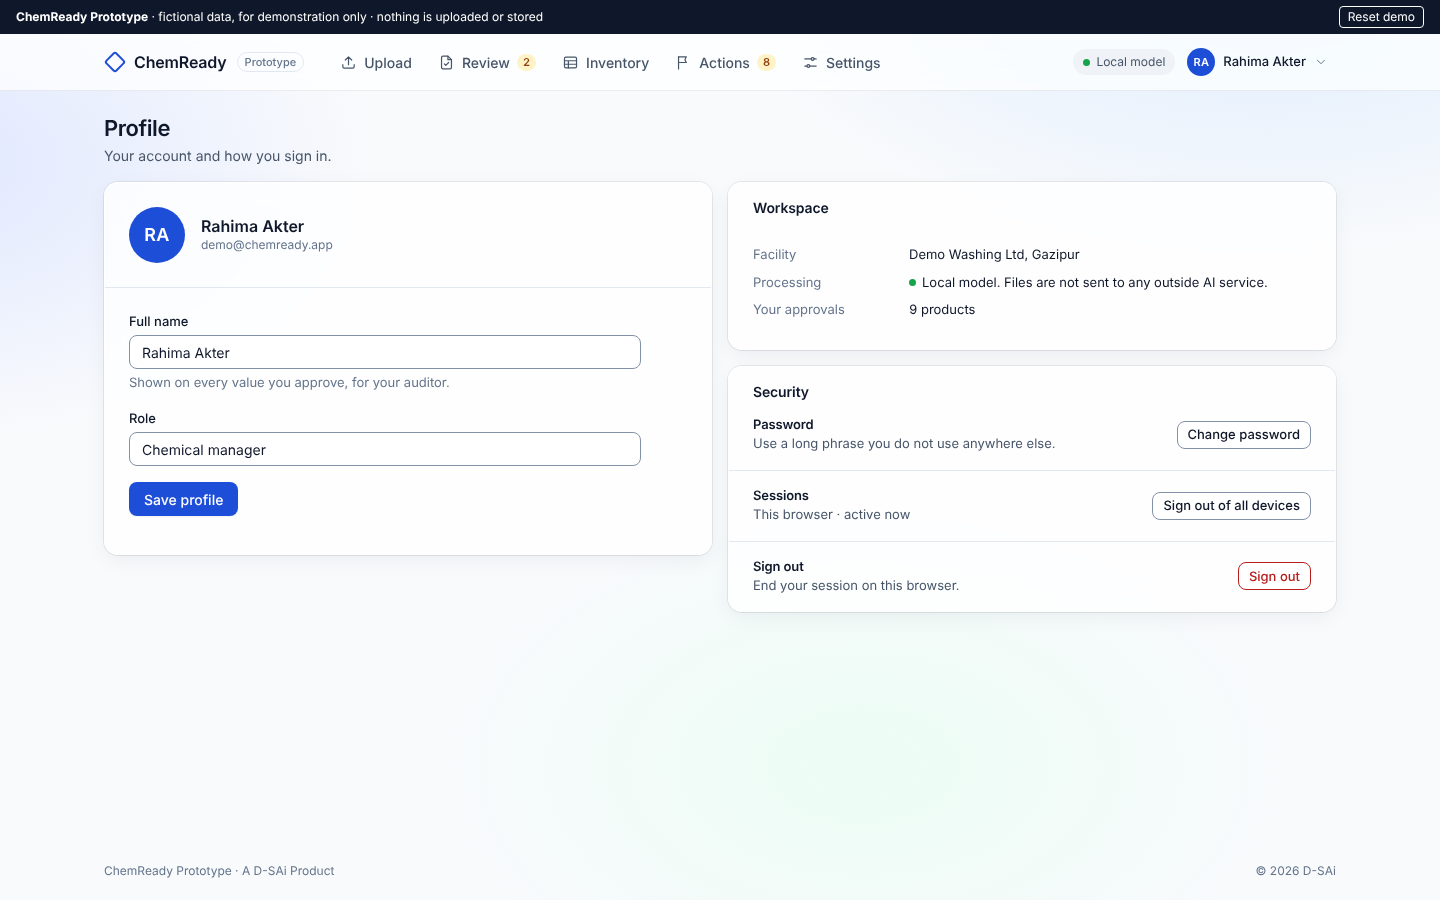
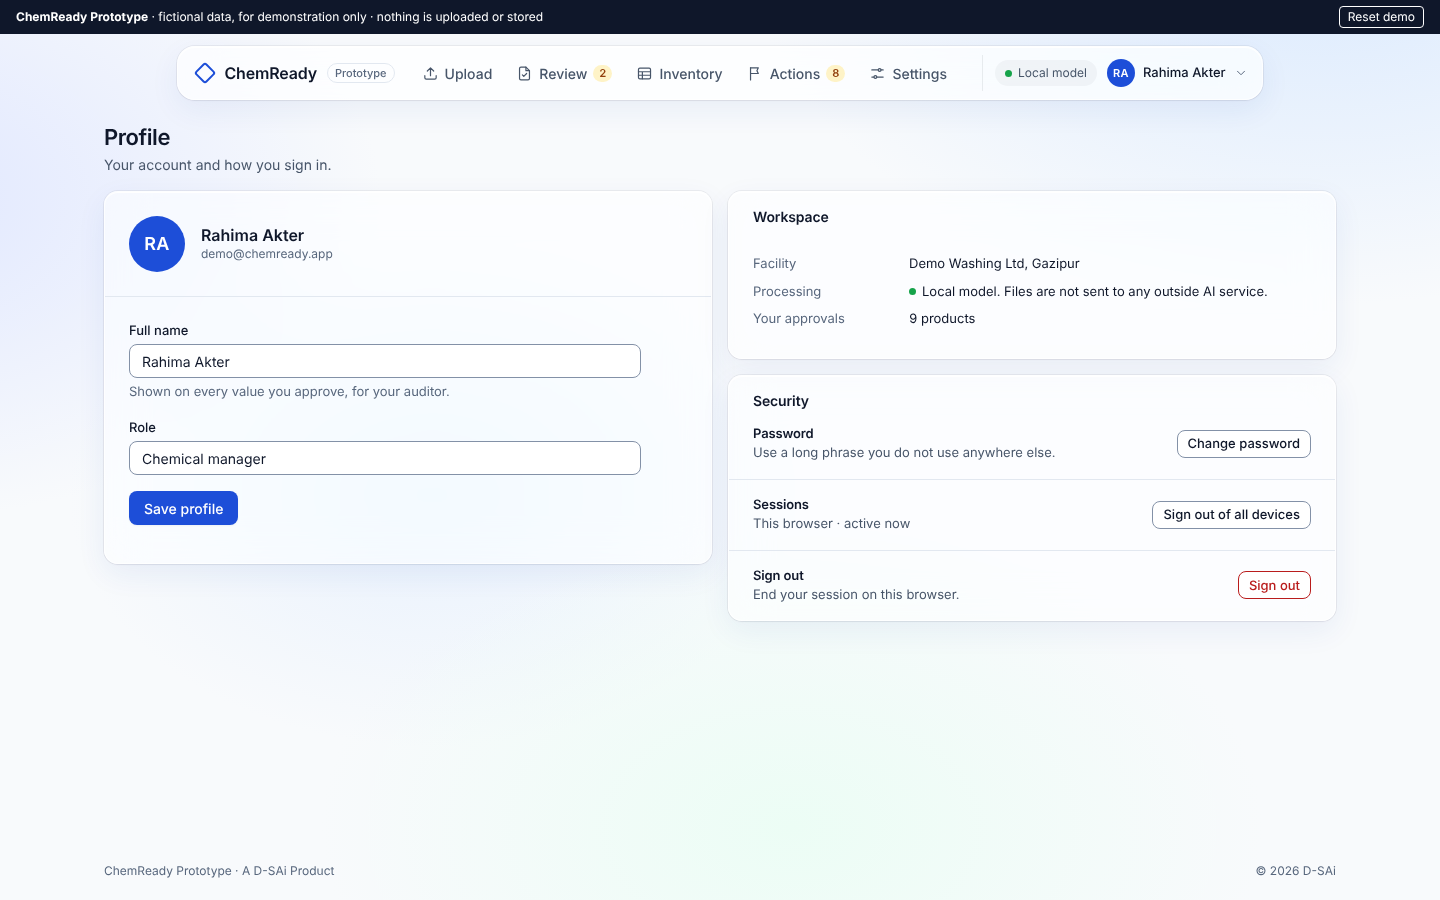
feat(prototype): compact floating navigation pill and glass cards
- Replace the full-width top bar with a centred floating glass pill
- Make every card glass with blur, a top highlight and a soft shadow
- Darken muted text so it stays readable on glass

diff --git a/prototype/index.html b/prototype/index.html
@@ -10,7 +10,7 @@
   --color-surface-subtle: #F1F5F9;
   --color-text: #0F172A;
   --color-text-secondary: #475569;
-  --color-text-muted: #64748B;
+  --color-text-muted: #58677D;
   --color-border: #E2E8F0;
   --color-border-input: #8391A7;
   --color-primary: #1D4ED8;
@@ -44,16 +44,18 @@
   --shadow-sm: 0 1px 2px rgba(15, 23, 42, 0.05);
   --shadow-md: 0 4px 14px rgba(15, 23, 42, 0.08), 0 1px 3px rgba(15, 23, 42, 0.06);
   --shadow-lg: 0 20px 48px rgba(15, 23, 42, 0.18), 0 2px 6px rgba(15, 23, 42, 0.08);
-  --topnav-height: 56px;
+  --topnav-height: 52px;
   --row-height: 40px;
   --content-max: 1280px;
   --banner-height: 30px;
   --glass-bg: rgba(255, 255, 255, 0.62);
   --glass-bg-strong: rgba(255, 255, 255, 0.78);
-  --glass-nav: rgba(255, 255, 255, 0.72);
+  --glass-nav: rgba(255, 255, 255, 0.70);
   --glass-menu: #FFFFFF;
-  --glass-card: rgba(255, 255, 255, 0.80);
-  --glass-card-blur: saturate(160%) blur(14px);
+  --glass-card: rgba(255, 255, 255, 0.58);
+  --glass-card-blur: saturate(180%) blur(20px);
+  --glass-highlight: inset 0 1px 0 rgba(255, 255, 255, 0.9);
+  --glass-card-shadow: 0 0 0 1px rgba(15, 23, 42, 0.06), 0 1px 2px rgba(15, 23, 42, 0.04), 0 10px 30px rgba(30, 64, 175, 0.07);
   --glass-border: rgba(255, 255, 255, 0.75);
   --glass-edge: rgba(15, 23, 42, 0.08);
   --glass-blur: saturate(180%) blur(18px);
@@ -67,9 +69,10 @@ html, body { height: 100%; }
 body {
   margin: 0; color: var(--color-text);
   background:
-    radial-gradient(900px 520px at 88% -8%, var(--wash-1) 0%, transparent 62%),
-    radial-gradient(760px 460px at -6% 18%, var(--wash-2) 0%, transparent 60%),
-    radial-gradient(700px 420px at 60% 85%, var(--wash-3) 0%, transparent 60%),
+    radial-gradient(900px 560px at 92% -6%, var(--wash-1) 0%, transparent 64%),
+    radial-gradient(800px 520px at -8% 22%, var(--wash-2) 0%, transparent 62%),
+    radial-gradient(760px 480px at 55% 92%, var(--wash-3) 0%, transparent 62%),
+    radial-gradient(520px 360px at 30% 55%, rgba(219, 234, 254, 0.55) 0%, transparent 70%),
     var(--color-page);
   background-attachment: fixed;
   font-family: var(--font-sans); font-size: var(--text-base); line-height: 1.5;
@@ -97,7 +100,7 @@ svg.icon { width: 18px; height: 18px; flex: none; fill: none; stroke: currentCol
 
 /* ---------- Landing ---------- */
 .landing { min-height: calc(100% - var(--banner-height)); }
-.glass { background: var(--glass-bg); -webkit-backdrop-filter: var(--glass-blur); backdrop-filter: var(--glass-blur); border: 1px solid var(--glass-border); box-shadow: 0 0 0 1px var(--glass-edge), var(--shadow-md); }
+.glass { background: var(--glass-card); -webkit-backdrop-filter: var(--glass-card-blur); backdrop-filter: var(--glass-card-blur); border: 1px solid var(--glass-border); box-shadow: var(--glass-highlight), var(--glass-card-shadow); }
 .l-wrap { max-width: 1120px; margin: 0 auto; padding-inline: var(--space-5); }
 .l-top-wrap { position: sticky; top: calc(var(--banner-height) + 12px); z-index: 10; padding-inline: var(--space-4); margin-top: 12px; }
 .l-top.glass { background: rgba(255, 255, 255, 0.86); }
@@ -141,27 +144,28 @@ svg.icon { width: 18px; height: 18px; flex: none; fill: none; stroke: currentCol
 
 /* ---------- App shell: horizontal top navigation, no sidebar ---------- */
 .app { min-height: calc(100% - var(--banner-height)); display: flex; flex-direction: column; }
-.topnav {
-  position: sticky; top: var(--banner-height); z-index: 15;
+.topnav { position: sticky; top: calc(var(--banner-height) + 12px); z-index: 15; padding-inline: var(--space-4); margin-top: 12px; }
+.topnav-shell {
+  width: fit-content; max-width: 100%; margin: 0 auto; border-radius: 18px;
   background: var(--glass-nav); -webkit-backdrop-filter: var(--glass-blur); backdrop-filter: var(--glass-blur);
-  border-bottom: 1px solid var(--glass-edge);
+  border: 1px solid var(--glass-border); box-shadow: var(--glass-highlight), var(--glass-card-shadow);
 }
-.topnav-inner { max-width: var(--content-max); margin: 0 auto; height: var(--topnav-height); padding-inline: var(--space-5); display: flex; align-items: center; gap: var(--space-5); }
+.topnav-inner { height: var(--topnav-height); padding: 0 6px 0 16px; display: flex; align-items: center; gap: var(--space-4); }
 .topnav .brand { flex: none; }
 .brand-tag { font-size: 11px; font-weight: 500; color: var(--color-text-muted); border: 1px solid var(--color-border); border-radius: 999px; padding: 0 7px; line-height: 18px; margin-left: 2px; }
 .nav { display: flex; align-items: center; gap: 2px; flex: 1; min-width: 0; }
 .nav button {
-  display: inline-flex; align-items: center; gap: 7px; height: 32px; padding: 0 12px;
+  display: inline-flex; align-items: center; gap: 6px; height: 34px; padding: 0 11px; border-radius: 11px !important;
   background: none; border: 0; border-radius: var(--radius-md);
   color: var(--color-text-secondary); font-weight: 500; white-space: nowrap;
   transition: background-color 150ms, color 150ms;
 }
 .nav button svg.icon { width: 17px; height: 17px; }
 .nav button:hover { background: rgba(15, 23, 42, 0.05); color: var(--color-text); }
-.nav button[aria-current="page"] { background: var(--color-surface); color: var(--color-primary); box-shadow: 0 0 0 1px var(--glass-edge), var(--shadow-sm); }
+.nav button[aria-current="page"] { background: var(--color-surface); color: var(--color-primary); box-shadow: 0 0 0 1px rgba(29, 78, 216, 0.14), 0 2px 8px rgba(29, 78, 216, 0.12); }
 .count { font-size: 11px; font-weight: 600; padding: 0 6px; border-radius: 999px; background: rgba(15, 23, 42, 0.06); color: var(--color-text-secondary); font-variant-numeric: tabular-nums; line-height: 17px; }
 .count-review { background: var(--color-review-bg); color: var(--color-review-text); }
-.topnav-right { display: flex; align-items: center; gap: var(--space-2); margin-left: auto; flex: none; position: relative; }
+.topnav-right { display: flex; align-items: center; gap: 6px; margin-left: var(--space-2); flex: none; position: relative; padding-left: var(--space-3); border-left: 1px solid rgba(15, 23, 42, 0.08); }
 .mode-chip { display: inline-flex; align-items: center; gap: 6px; font-size: var(--text-xs); color: var(--color-text-secondary); padding: 0 10px; height: 26px; border-radius: 999px; background: rgba(15, 23, 42, 0.04); }
 .dot { width: 7px; height: 7px; border-radius: 50%; background: var(--color-verified-icon); flex: none; }
 .profile-btn { display: inline-flex; align-items: center; gap: var(--space-2); height: 36px; padding: 0 8px 0 4px; background: none; border: 0; border-radius: 999px; transition: background-color 150ms; }
@@ -188,7 +192,7 @@ svg.icon { width: 18px; height: 18px; flex: none; fill: none; stroke: currentCol
 .menu-foot { font-size: 11px; color: var(--color-text-muted); padding: 6px var(--space-2) 2px; }
 .menu-toggle { display: none; width: 36px; height: 36px; border: 0; background: none; border-radius: var(--radius-md); place-items: center; color: var(--color-text); }
 .menu-toggle:hover { background: rgba(15, 23, 42, 0.05); }
-.mobile-menu { border-top: 1px solid var(--glass-edge); padding: var(--space-2) var(--space-4) var(--space-4); display: grid; gap: 2px; }
+.mobile-menu { border-top: 1px solid var(--glass-edge); padding: var(--space-2) 6px 6px; display: grid; gap: 2px; min-width: min(320px, calc(100vw - 32px)); }
 .mobile-menu button { display: flex; align-items: center; gap: var(--space-3); height: 42px; padding: 0 var(--space-3); border: 0; background: none; border-radius: var(--radius-md); font-weight: 500; color: var(--color-text-secondary); text-align: left; }
 .mobile-menu button[aria-current="page"] { background: var(--color-surface); color: var(--color-primary); box-shadow: 0 0 0 1px var(--glass-edge); }
 .mobile-menu .count { margin-left: auto; }
@@ -216,7 +220,7 @@ svg.icon { width: 18px; height: 18px; flex: none; fill: none; stroke: currentCol
 .section-title { font-size: var(--text-base); font-weight: 600; padding: var(--space-4) var(--space-5) 0; }
 
 /* ---------- Components ---------- */
-.card { background: var(--glass-card); -webkit-backdrop-filter: var(--glass-card-blur); backdrop-filter: var(--glass-card-blur); border: 1px solid var(--glass-border); border-radius: var(--radius-xl); box-shadow: 0 0 0 1px var(--glass-edge), 0 1px 2px rgba(15, 23, 42, 0.04), 0 6px 20px rgba(15, 23, 42, 0.05); }
+.card, .glass-panel { background: var(--glass-card); -webkit-backdrop-filter: var(--glass-card-blur); backdrop-filter: var(--glass-card-blur); border: 1px solid var(--glass-border); border-radius: var(--radius-xl); box-shadow: var(--glass-highlight), var(--glass-card-shadow); transition: box-shadow 200ms; }
 .card-pad { padding: var(--space-5); }
 .btn { display: inline-flex; align-items: center; justify-content: center; gap: 6px; font-weight: 500; padding: 0 14px; height: 34px; border-radius: var(--radius-md); border: 1px solid transparent; white-space: nowrap; transition: background-color 120ms, border-color 120ms; }
 .btn-sm { padding: 0 10px; height: 28px; font-size: var(--text-sm); }
@@ -262,7 +266,7 @@ svg.icon { width: 18px; height: 18px; flex: none; fill: none; stroke: currentCol
 /* Tables */
 .table-wrap { overflow-x: auto; }
 table.data { width: 100%; border-collapse: collapse; font-size: var(--text-sm); }
-table.data th { text-align: left; font-weight: 500; color: var(--color-text-muted); font-size: var(--text-xs); padding: var(--space-3) var(--space-4) var(--space-2); border-bottom: 1px solid var(--color-border); white-space: nowrap; }
+table.data th { background: rgba(255, 255, 255, 0.35); text-align: left; font-weight: 500; color: var(--color-text-muted); font-size: var(--text-xs); padding: var(--space-3) var(--space-4) var(--space-2); border-bottom: 1px solid var(--color-border); white-space: nowrap; }
 table.data td { padding: var(--space-2) var(--space-4); border-bottom: 1px solid var(--color-border); vertical-align: middle; height: var(--row-height); }
 table.data tbody tr:last-child td { border-bottom: 0; }
 table.data tr.clickable { cursor: pointer; }
@@ -291,7 +295,7 @@ textarea.input { height: auto; padding: var(--space-2) var(--space-3); }
 .dropzone.dragging { border-color: var(--color-primary); background: var(--color-primary-soft); }
 .dropzone .drop-icon { width: 40px; height: 40px; border-radius: 10px; background: var(--color-primary-soft); color: var(--color-primary); display: grid; place-items: center; margin: 0 auto var(--space-3); }
 .dropzone h2 { font-size: var(--text-md); font-weight: 600; margin-bottom: var(--space-1); }
-.notice { display: flex; gap: var(--space-2); align-items: flex-start; padding: var(--space-3) var(--space-4); border-radius: var(--radius-md); background: var(--color-verified-bg); color: var(--color-verified-text); font-size: var(--text-sm); margin: var(--space-4) 0; }
+.notice { -webkit-backdrop-filter: var(--glass-card-blur); backdrop-filter: var(--glass-card-blur); border: 1px solid rgba(255, 255, 255, 0.6); display: flex; gap: var(--space-2); align-items: flex-start; padding: var(--space-3) var(--space-4); border-radius: var(--radius-md); background: var(--color-verified-bg); color: var(--color-verified-text); font-size: var(--text-sm); margin: var(--space-4) 0; }
 .notice-warn { background: var(--color-review-bg); color: var(--color-review-text); }
 .batch-list { list-style: none; margin: 0; padding: 0; }
 .batch-list li { display: flex; gap: var(--space-3); align-items: baseline; padding: var(--space-2) var(--space-4); border-top: 1px solid var(--color-border); font-size: var(--text-sm); flex-wrap: wrap; }
@@ -327,7 +331,7 @@ textarea.input { height: auto; padding: var(--space-2) var(--space-3); }
 
 .viewer { position: sticky; top: calc(var(--banner-height) + var(--space-4)); overflow: hidden; }
 .viewer-bar { display: flex; justify-content: space-between; align-items: center; gap: var(--space-2); padding: var(--space-2) var(--space-3) var(--space-2) var(--space-4); border-bottom: 1px solid var(--color-border); font-size: var(--text-sm); flex-wrap: wrap; }
-.desk { background: var(--color-pdf-desk); padding: var(--space-4); max-height: 70vh; overflow: auto; }
+.desk { background: rgba(226, 232, 240, 0.55); padding: var(--space-4); max-height: 70vh; overflow: auto; }
 .paper { background: var(--color-pdf-paper); box-shadow: var(--shadow-md); padding: var(--space-6) var(--space-5); font-family: Georgia, "Times New Roman", serif; font-size: var(--text-sm); line-height: 1.7; min-height: 480px; }
 .paper .ln { white-space: pre-wrap; overflow-wrap: anywhere; }
 .paper .sec { font-family: var(--font-sans); font-weight: 700; margin-top: var(--space-3); }
@@ -345,7 +349,7 @@ mark.q { background: var(--color-highlight-bg); outline: 2px solid var(--color-h
 
 /* Dialog + toast */
 .overlay { position: fixed; inset: 0; background: var(--color-overlay); -webkit-backdrop-filter: blur(4px); backdrop-filter: blur(4px); display: grid; place-items: center; padding: var(--space-4); z-index: 20; }
-.dialog { background: rgba(255, 255, 255, 0.92); -webkit-backdrop-filter: var(--glass-blur); backdrop-filter: var(--glass-blur); border: 1px solid var(--glass-border); border-radius: var(--radius-xl); box-shadow: var(--shadow-lg); width: min(560px, 100%); max-height: 90vh; overflow: auto; }
+.dialog { box-shadow: var(--glass-highlight), var(--shadow-lg); background: rgba(255, 255, 255, 0.92); -webkit-backdrop-filter: var(--glass-blur); backdrop-filter: var(--glass-blur); border: 1px solid var(--glass-border); border-radius: var(--radius-xl); box-shadow: var(--shadow-lg); width: min(560px, 100%); max-height: 90vh; overflow: auto; }
 .dialog-sm { width: min(400px, 100%); }
 .dialog-head { padding: var(--space-5) var(--space-5) 0; }
 .dialog-head h2 { font-size: 17px; font-weight: 600; }
@@ -376,7 +380,7 @@ mark.q { background: var(--color-highlight-bg); outline: 2px solid var(--color-h
   .mode-chip { display: none; }
 }
 @media (max-width: 1023px) {
-  .topnav-inner { gap: var(--space-3); padding-inline: var(--space-4); }
+  .topnav-inner { gap: var(--space-2); }
   .nav button { padding: 0 9px; }
   .nav button svg.icon { display: none; }
   .brand-tag, .profile-btn .name { display: none; }
@@ -388,6 +392,8 @@ mark.q { background: var(--color-highlight-bg); outline: 2px solid var(--color-h
   .profile-grid { grid-template-columns: minmax(0, 1fr); }
 }
 @media (max-width: 767px) {
+  .topnav-shell { width: 100%; }
+  .topnav-right { margin-left: auto; border-left: 0; padding-left: 0; }
   .nav { display: none; }
   .menu-toggle { display: grid; }
   .topnav-right .btn-plain { display: none; }
@@ -413,6 +419,7 @@ mark.q { background: var(--color-highlight-bg); outline: 2px solid var(--color-h
 
 <div class="app" id="app" hidden>
   <header class="topnav">
+    <div class="topnav-shell">
     <div class="topnav-inner">
       <button class="brand" type="button" id="brand-home" aria-label="ChemReady home"><span class="brand-mark" aria-hidden="true"></span><span class="brand-name">ChemReady</span><span class="brand-tag">Prototype</span></button>
       <nav class="nav" id="nav" aria-label="Main"></nav>
@@ -420,6 +427,7 @@ mark.q { background: var(--color-highlight-bg); outline: 2px solid var(--color-h
       <button class="menu-toggle" type="button" id="menu-toggle" aria-label="Open menu" aria-expanded="false" aria-controls="mobile-menu"><svg class="icon" viewBox="0 0 24 24" aria-hidden="true"><path d="M4 7h16M4 12h16M4 17h16"/></svg></button>
     </div>
     <div class="mobile-menu" id="mobile-menu" hidden></div>
+    </div>
   </header>
   <div id="sample-strip"></div>
   <main class="main" id="main" tabindex="-1"></main>

diff --git a/docs/design/tokens.css b/docs/design/tokens.css
@@ -12,7 +12,7 @@
   --color-surface-subtle: #F1F5F9;
   --color-text: #0F172A;
   --color-text-secondary: #475569;
-  --color-text-muted: #64748B;
+  --color-text-muted: #58677D;
   --color-border: #E2E8F0;        /* dividers and card edges (decorative) */
   --color-border-input: #8391A7;  /* form fields: 3.19:1 so the edge is visible */
 
@@ -86,18 +86,19 @@
   --shadow-lg: 0 20px 48px rgba(15, 23, 42, 0.18), 0 2px 6px rgba(15, 23, 42, 0.08); /* dialogs, menus, toasts */
 
   /* Layout */
-  --topnav-height: 56px;  /* horizontal top navigation, no sidebar */
+  --topnav-height: 52px;  /* floating pill navigation, no sidebar */
   --content-max: 1280px;  /* page content width */
 
-  /* Glass: used on the top bar, cards, dialogs and the website. Text always sits
-     on 72% or more white, so contrast stays the same as on solid white. */
+  /* Glass: every card, the navigation pill, dialogs and the website. Cards are 58%
+     white over a soft wash; all text still passes WCAG AA (checked by script). */
   --glass-nav: rgba(255, 255, 255, 0.72);
-  --glass-card: rgba(255, 255, 255, 0.80);
+  --glass-card: rgba(255, 255, 255, 0.58);
   --glass-menu: #FFFFFF;  /* menus inside the top bar must be solid */
   --glass-border: rgba(255, 255, 255, 0.75);
   --glass-edge: rgba(15, 23, 42, 0.08);
   --glass-blur: saturate(180%) blur(18px);
-  --glass-card-blur: saturate(160%) blur(14px);
+  --glass-card-blur: saturate(180%) blur(20px);
+  --glass-highlight: inset 0 1px 0 rgba(255, 255, 255, 0.9);
   --wash-1: #DBEAFE;      /* soft background wash behind glass */
   --wash-2: #E0E7FF;
   --wash-3: #ECFDF5;

diff --git a/docs/design/03-design-system.md b/docs/design/03-design-system.md
@@ -31,7 +31,7 @@ looks and behaves the same.
 | `--color-surface-subtle` | #F1F5F9 | Table header, hover rows | — |
 | `--color-text` | #0F172A | Main text | 17.85:1 on white |
 | `--color-text-secondary` | #475569 | Labels, column headers | 7.58:1 |
-| `--color-text-muted` | #64748B | Help text, timestamps | 4.76:1 on white, 4.55:1 on page |
+| `--color-text-muted` | #58677D | Help text, timestamps | 5.75:1 on white, 5.17:1 on glass |
 | `--color-border` | #E2E8F0 | Dividers (decorative) | — |
 | `--color-border-input` | #8391A7 | Form fields, secondary buttons | 3.19:1 |
 | `--color-primary` | #1D4ED8 | Primary buttons, links, selected row | white text 6.70:1 |
@@ -127,10 +127,10 @@ Use only these values.
 dialogs), full (status pills).
 **Shadows:** cards use a hairline shadow; menus, dialogs and toasts use the
 larger one.
-**Layout:** horizontal glass top navigation 56 px high, no sidebar; content up
-to 1280 px wide. See `04-navigation-and-sign-in.md`.
-**Glass:** top bar, cards, dialogs and the website only. Text always sits on
-72% or more white. Menus inside the top bar are solid white.
+**Layout:** a compact floating glass navigation pill, 52 px high, centred; no
+sidebar; content up to 1280 px wide. See `04-navigation-and-sign-in.md`.
+**Glass:** every card (58% white, 20 px blur, white top highlight), the
+navigation pill, dialogs and the website. Menus inside the pill are solid white.
 
 ## Components (P0 set)
 

diff --git a/docs/design/04-navigation-and-sign-in.md b/docs/design/04-navigation-and-sign-in.md
@@ -114,3 +114,11 @@ Invite only is simpler and safer for the first 2 pilots; open sign up can follow
 | Website hero label | A D-SAi Product |
 | Website About section | Designed and built by Md. Alqurayish Sharkar, AI Product Engineer |
 | Footers and profile menu | ChemReady Prototype · A D-SAi Product · © 2026 D-SAi |
+
+## Refinement 4: compact pill navigation and glass cards
+
+- The top bar is no longer full width. It is a compact floating glass pill,
+  centred, as wide as its content: logo, five pages, then the profile.
+- Every card is glass: 58% white, 20 px blur, a white top highlight and a soft
+  blue shadow, over a gentle colour wash.
+- Muted text darkened from #64748B to #58677D so it stays above 4.5:1 on glass.
